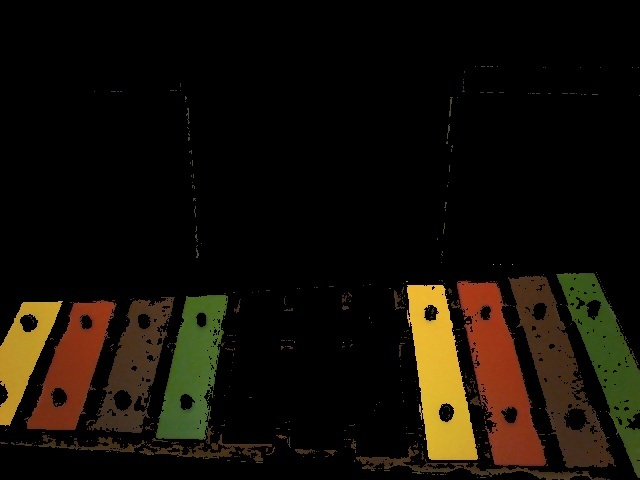
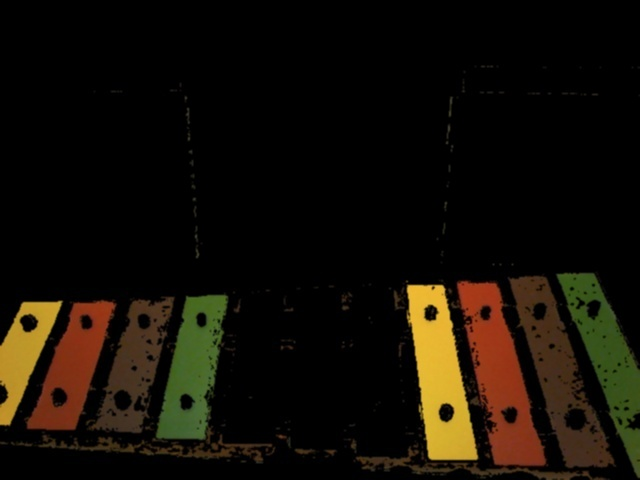
saved blurred pics

diff --git a/Vision_Detection_Part/color_edge_detection.py b/Vision_Detection_Part/color_edge_detection.py
@@ -39,12 +39,12 @@ for (lower, upper) in boundaries:
     mask = cv2.inRange(image, lower, upper)
     
     output = cv2.bitwise_and(image, image, mask = mask)
-    blurred = cv2.GaussianBlur(output, (1, 1), 0)
+    blurred = cv2.GaussianBlur(output, (3, 3), 0)
     
     # cv2.imshow("image", output)
     # show the images
     # cv2.imshow("images", np.hstack([image, output]))
-    cv2.imwrite(str(n) + ".jpg", output)
+    cv2.imwrite(str(n) + ".jpg", blurred)
     
     if n == 1:
         continue
@@ -57,7 +57,7 @@ for (lower, upper) in boundaries:
 img = cv2.imread(str(n) + ".jpg", 1)
 
 gray = cv2.cvtColor(img, cv2.COLOR_BGR2GRAY)
-blurred = cv2.GaussianBlur(gray, (5, 5), 0)
+blurred = cv2.GaussianBlur(gray, (1, 1), 0)
 # cv2.imshow("image", blurred)
 result = cv2.Canny(blurred, 100, 225)  
 # cv2.imshow("image", result)
